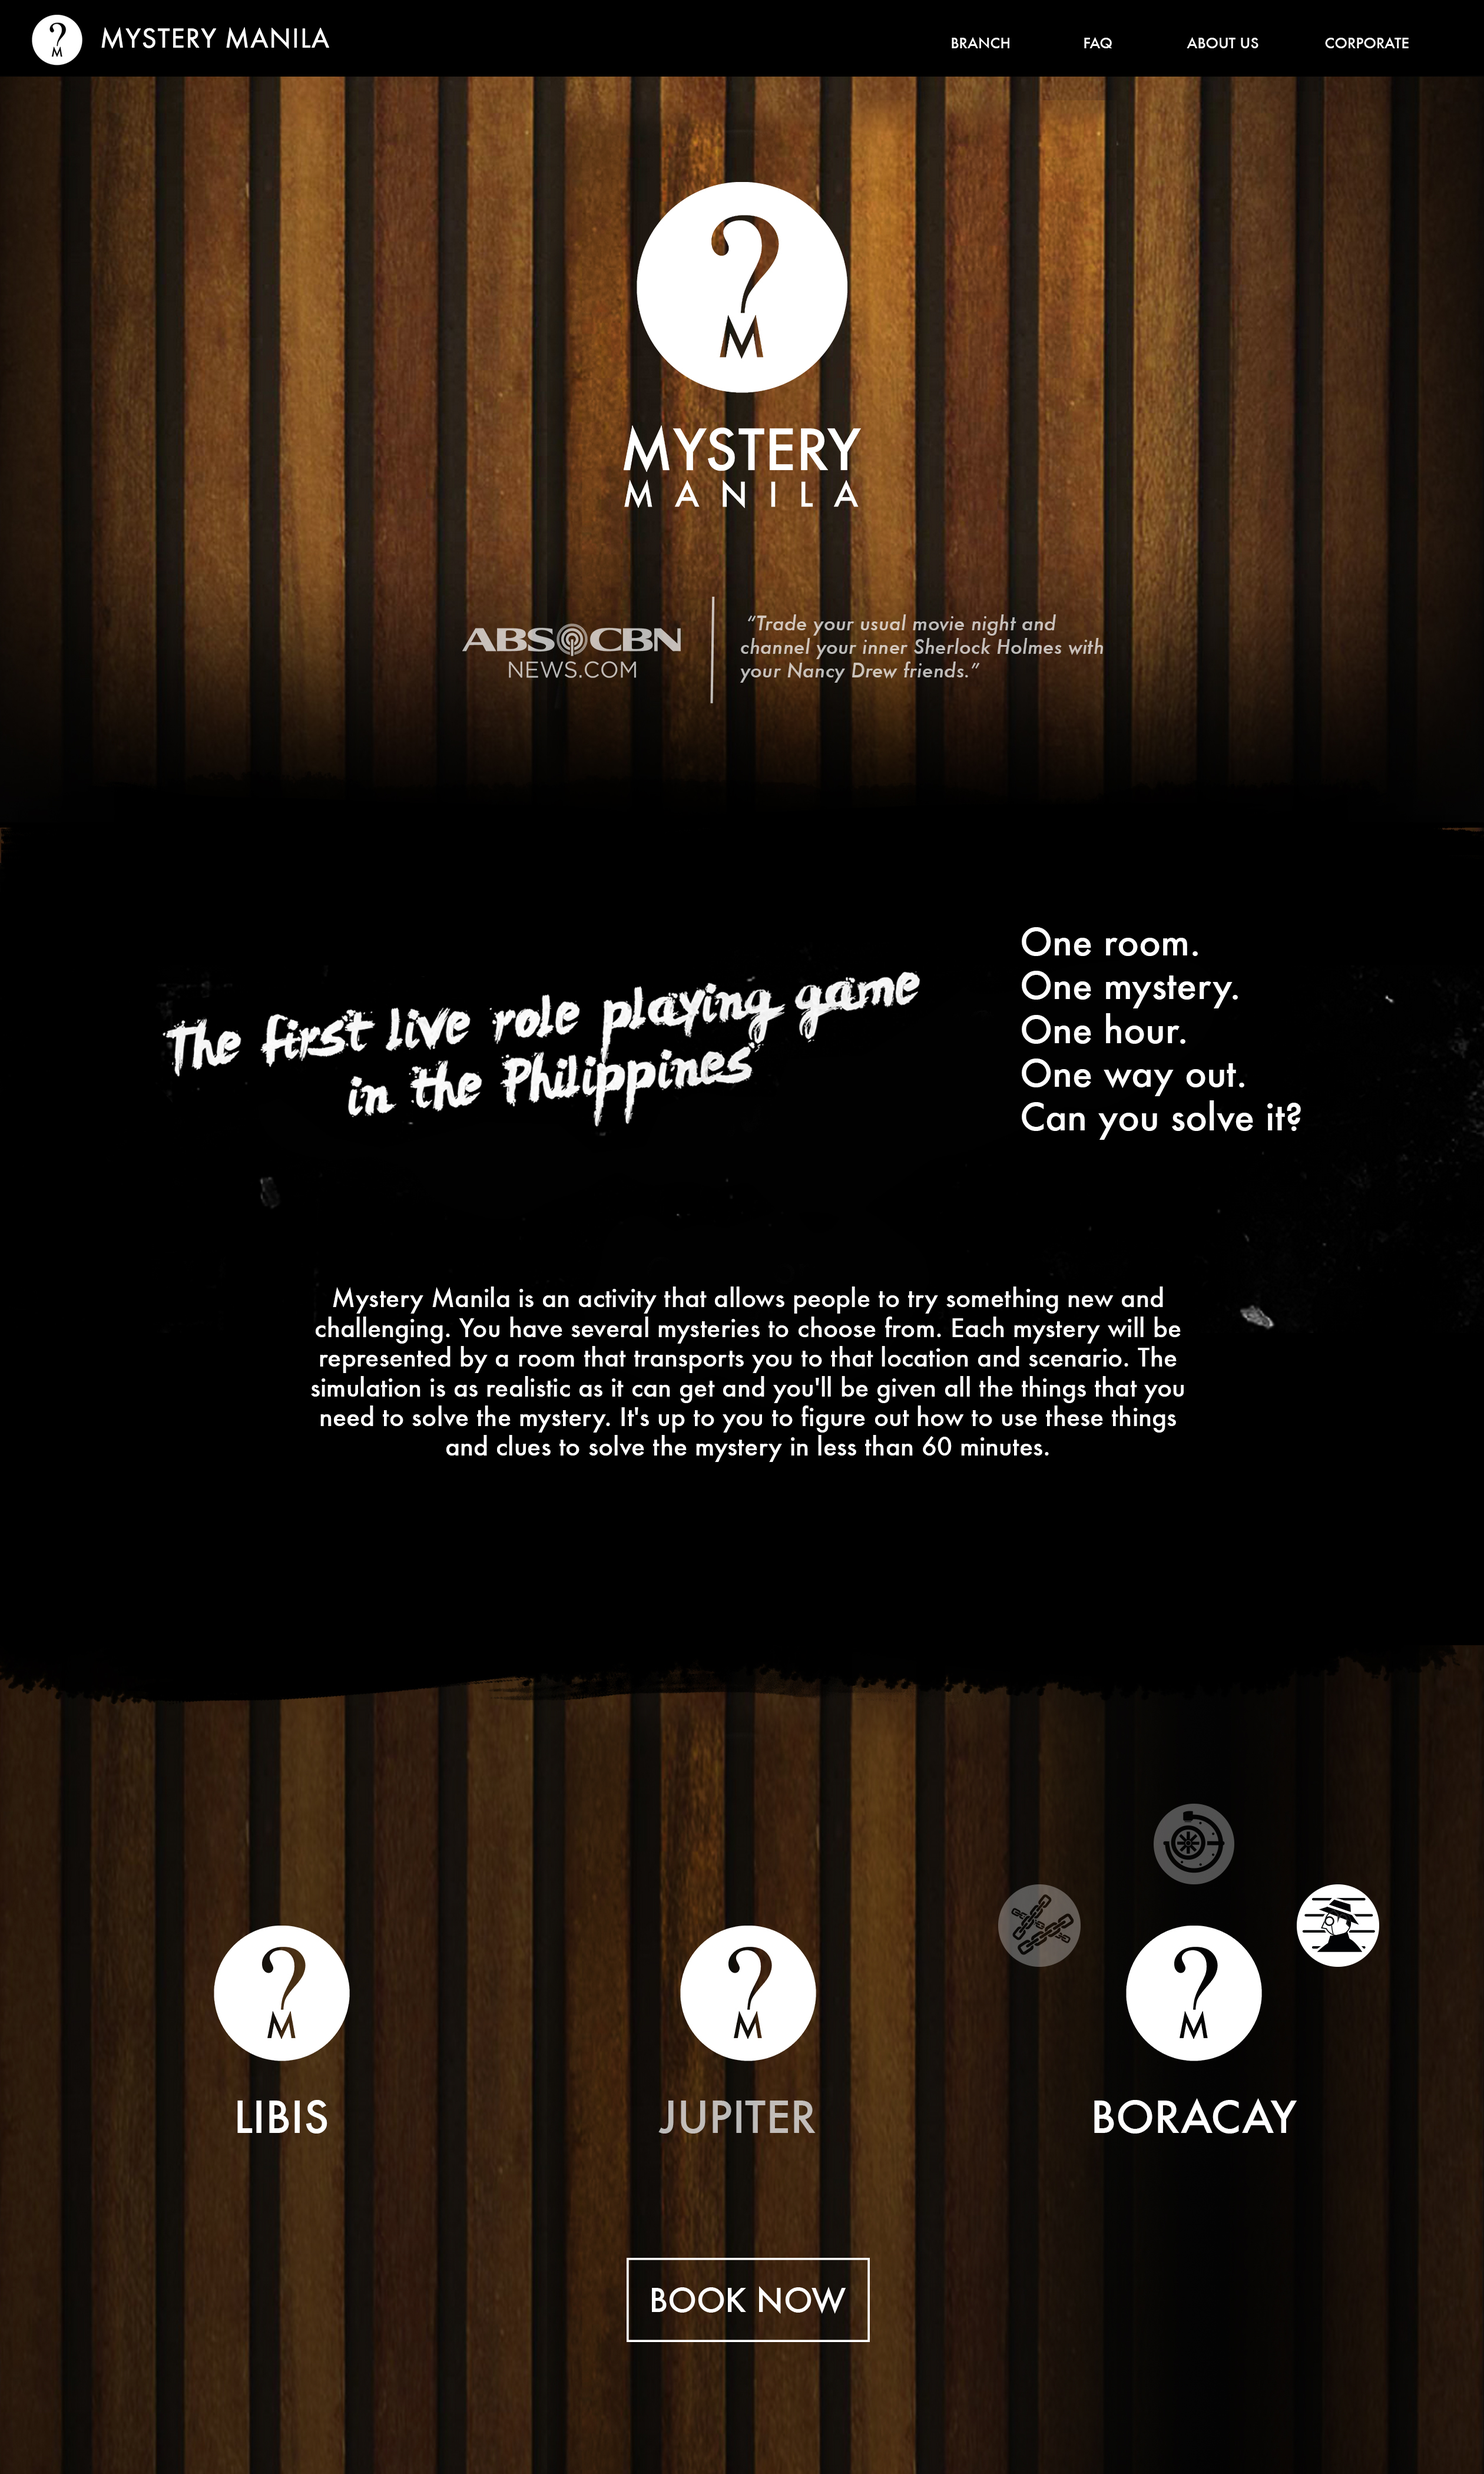
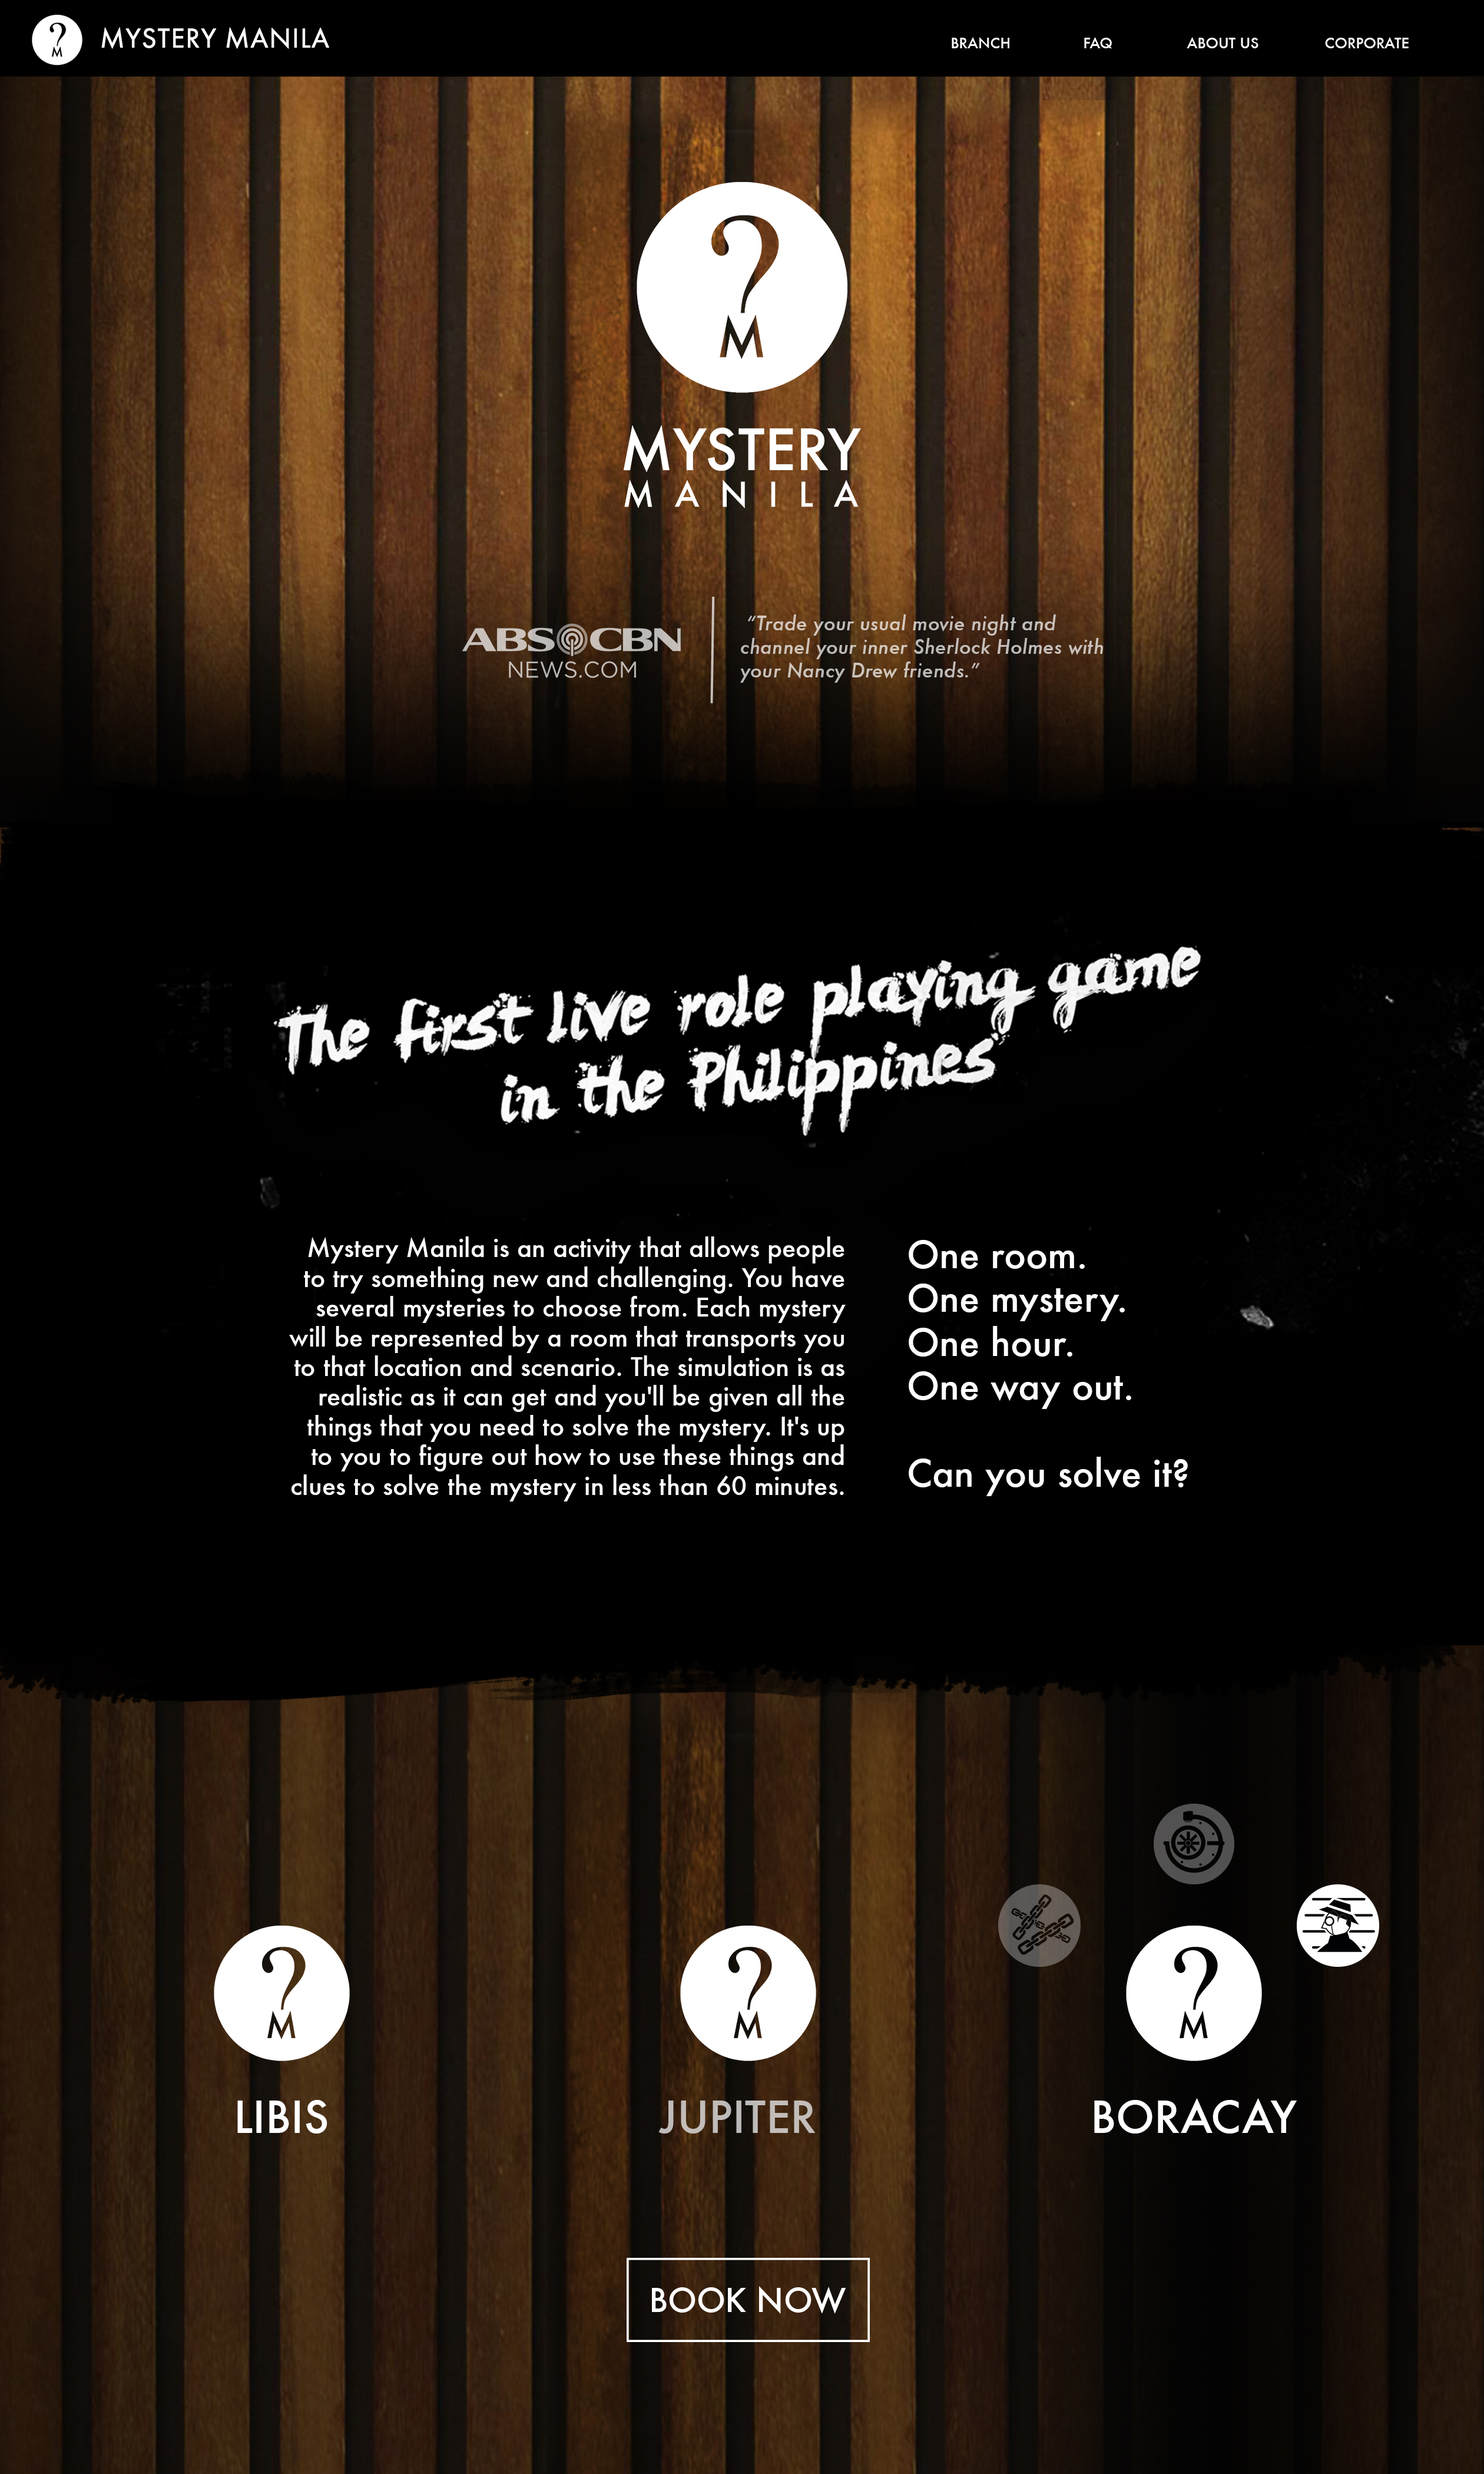
add rooms

Changed region(s): [[0.1857, 0.499, 0.8048, 0.6238], [0.0929, 0.3743, 0.8667, 0.4679]]

diff --git a/_includes/front/teaser.html b/_includes/front/teaser.html
@@ -3,24 +3,23 @@
     <div class="container">
         <h1 class="stylized teaser-head">The first live role playing game<br>in the Philippines</h1>
 
-        <div class="row" style="margin-top: 70px;">
+        <div class="row teaser-description">
             <div class="col-md-12">
-                <div class="col-md-offset-1 col-md-6">
-                    <blockquote class="text-right">
+                <div class="col-md-offset-2 col-md-5 teaser-text">
+                    <p class="text-right">
                         Mystery Manila is an activity that allows people to try something new and challenging. You have
                         several mysteryies to choose from. Each mystery will be represented by a room that transports
                         you to that location and scenario. The simulation is as realistic as it can get and you'll be
                         given all the things that you need to solve the mystery. It's up to you to figure out how to use
                         these things and clues to solve the mystery in less than 60 minutes.
-                    </blockquote>
+                    </p>
                 </div>
-                <div class="col-md-5 text-left">
-                    <h2>One room.<br>
+                <div class="col-md-5 text-left teaser-text-right">
+                    <h2 class="top-teaser-text">One room.<br>
                         One mystery.<br>
                         One hour.<br>
                         One way out.</h2>
-
-                    <h2 style="margin-top: 30px;">Can you solve it?</h2>
+                    <h2 class="bottom-teaser-text">Can you solve it?</h2>
                 </div>
             </div>
         </div>

diff --git a/_sass/_mysteryManila.sass b/_sass/_mysteryManila.sass
@@ -1,7 +1,7 @@
-//#mock
-//  opacity: 0.7
-//  background: url("/img/mock.jpg")
-//  background-size: contain
+#mock
+  opacity: 0.7
+  background: url("/img/mock.jpg")
+  background-size: contain
 
 /* colors
 $white: white
@@ -143,7 +143,10 @@ nav
           clear: both
         img
           vertical-align: middle
+          &:nth-child(2)
+            padding-left: 100px
         blockquote
+          border-left: 2px solid #ffffff
           color: #ffffff
           width: 70%
           min-height: 110px
@@ -185,20 +188,27 @@ nav
       .stylized
         font-family: $levi-text
       .teaser-head
-        font-size: 54px
+        font-size: 63px
         transform: rotate(-5deg)
-    blockquote
-      padding: 10px 30px
-      width: 100%
-      border-left: none
-    h2
-      margin-top: 10px
-      margin-bottom: 0
-    span
-      &.teaser-brush-frame
-        height: 200px
-        background-image: url(/img/brush-edges/Top_2.png)
-        background-position: bottom
+      .teaser-description
+        margin-top: 80px
+        .teaser-text
+          padding: 0px
+          p
+            font-size: 19px
+            width: 100%
+        .teaser-text-right
+          padding-left: 30px
+          .top-teaser-text
+            font-size: 35px
+            margin: 0px
+          .bottom-teaser-text
+            margin-top: 50px
+  span
+    &.teaser-brush-frame
+      height: 200px
+      background-image: url(/img/brush-edges/Top_2.png)
+      background-position: bottom
 
 /*sidebar style
 #sidebar

diff --git a/index.html b/index.html
@@ -3,33 +3,35 @@ layout: front
 ---
 
 {% include front/cover.html %}
+{% include front/sidebar.html %}
 <div id="glass-container">
     <div id="glass" data-stellar-background-ratio="0.1" class="clearfix"></div>
     <!--<img id="glass-image" src="/img/scratches.png" data-stellar-ratio="1.5"/>-->
     <div id="teaser">
-      {% include front/teaser.html %}
+        {% include front/teaser.html %}
+    </div>
+    <div id="rooms">
+        {% include front/rooms.html %}
     </div>
 </div>
 <div class="transparent-container">
     <div id="ig" class="clearfix">
-      {%include front/instagram.html%}
+        {%include front/instagram.html%}
     </div>
 
     <div id="faq">
         {% include front/faq.html %}
     </div>
     <div id="about-us">
-      {% include front/about-us.html %}
+        {% include front/about-us.html %}
     </div>
     <div id="branches">
-      {% include front/branches.html %}
+        {% include front/branches.html %}
     </div>
     <div id="contact">
         {% include front/contact-us.html %}
     </div>
     <div id="featured">
-      {% include front/media-outlet.html %}
+        {% include front/media-outlet.html %}
     </div>
 </div>
-
-

diff --git a/_layouts/front.html b/_layouts/front.html
@@ -5,7 +5,8 @@
     <link href="//cdn-images.mailchimp.com/embedcode/slim-081711.css" rel="stylesheet" type="text/css">
     <script src="js/modernizr.custom.js"></script>
 </head>
-  <body id="mock">
+    <body>
+  <!--<body id="mock">-->
     {% include nav-header.html %}
     {{ content }}
     {% include footer.html %}
